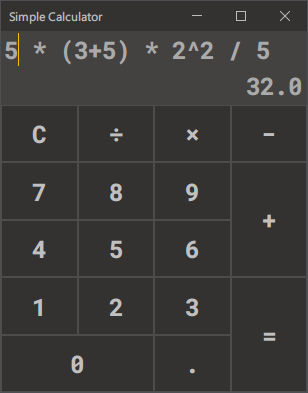
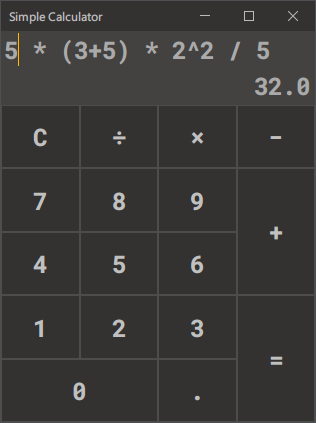
Initial commit

diff --git a/src/main/java/main/Main.java b/src/main/java/main/Main.java
@@ -1,6 +1,6 @@
 package main;
 
-import com.formdev.flatlaf.intellijthemes.FlatHiberbeeDarkIJTheme;
+import com.formdev.flatlaf.intellijthemes.FlatCyanLightIJTheme;
 import main.ui.CalculatorFrame;
 
 import javax.swing.*;
@@ -9,8 +9,10 @@ public class Main {
   public static void main(String[] args) {
     UIManager.put("Button.arc", 0);
     UIManager.put("Button.innerFocusWidth", 0);
-    FlatHiberbeeDarkIJTheme.setup();
+    UIManager.put("Component.focusWidth", 0);
 
+//    FlatHiberbeeDarkIJTheme.setup(); // Dark Theme
+    FlatCyanLightIJTheme.setup(); // Light Theme
     SwingUtilities.invokeLater(CalculatorFrame::new);
   }
 }

diff --git a/src/main/java/main/math_evaluator/parser/ExpressionParser.java b/src/main/java/main/math_evaluator/parser/ExpressionParser.java
@@ -28,7 +28,7 @@ public class ExpressionParser {
         // empty spaces in " %c " are important cuz we use it to split the expression into tokens (in buildExpression)
         while (stack.peek() != '(')
           postfixExpression.append(" %c ".formatted(stack.pop()));
-        stack.pop();
+        stack.pop(); // to pop '('
       } else {
         while (!stack.isEmpty() && (priority(character) <= priority(stack.peek())))
           postfixExpression.append(" %c ".formatted(stack.pop()));

diff --git a/src/main/java/main/ui/CalculatorFrame.java b/src/main/java/main/ui/CalculatorFrame.java
@@ -15,7 +15,7 @@ public class CalculatorFrame extends JFrame {
 
   public CalculatorFrame() {
     super("Simple Calculator");
-    setPreferredSize(new Dimension(290, 400));
+    setPreferredSize(new Dimension(330, 430));
     setMinimumSize(new Dimension(290, 400));
     setDefaultCloseOperation(WindowConstants.EXIT_ON_CLOSE);
 

diff --git a/README.md b/README.md
@@ -2,7 +2,8 @@
 
 Simple swing calculator with simple math expression parser
 
-![Screenshot](/images/1.png?raw=true)
+![Screenshot Dark](/images/1.png?raw=true)
+![Screenshot Light](/images/2.png?raw=true)
 
 ---
 
